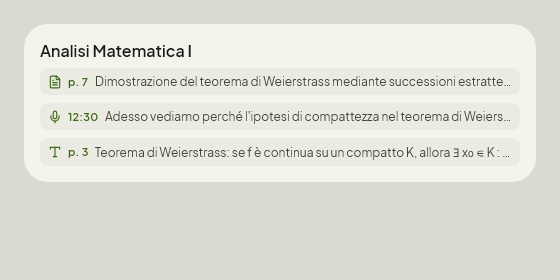
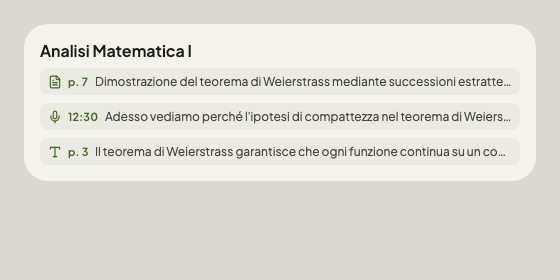
fix(search): matrices, cases and the commands of formatting read as math in the snippets, the screenshots left to the mac

diff --git a/drawview-search-ui/src/commonMain/kotlin/io/github/valerioisufi/drawview/search/ui/ReadableMath.kt b/drawview-search-ui/src/commonMain/kotlin/io/github/valerioisufi/drawview/search/ui/ReadableMath.kt
@@ -34,8 +34,14 @@ internal object ReadableMath {
     private class Reader(private val source: String) {
         private var at = 0
 
-        /** What follows up to [end] (a closing brace or bracket, consumed) or the end of the formula. */
-        fun readUntil(end: Char?, depth: Int): String {
+        /** Whether the command read last was an `\end`, closing the environment being read. */
+        private var environmentEnded = false
+
+        /**
+         * What follows up to [end] (a closing brace or bracket, consumed) or the end of the formula;
+         * in an environment ([inEnvironment]), up to its `\end`, its cells apart by [cell].
+         */
+        fun readUntil(end: Char?, depth: Int, cell: String = " ", inEnvironment: Boolean = false): String {
             val out = StringBuilder()
             while (at < source.length) {
                 val ch = source[at]
@@ -59,13 +65,20 @@ internal object ReadableMath {
                     }
                     '&' -> {
                         at++
-                        out.append(' ')
+                        out.append(cell)
                     }
                     '~' -> {
                         at++
                         out.append(' ')
                     }
-                    '\\' -> out.append(command(depth))
+                    '\\' -> {
+                        val read = command(depth)
+                        if (environmentEnded) {
+                            environmentEnded = false
+                            if (inEnvironment) return out.toString()
+                        }
+                        out.append(read)
+                    }
                     else -> {
                         at++
                         out.append(ch)
@@ -162,17 +175,88 @@ internal object ReadableMath {
                 }
                 "mathbb" -> argument(depth).let { content -> content.map { DOUBLE_STRUCK[it] ?: it }.joinToString("") }
                 "text", "textrm", "textit", "textbf", "mathrm", "mathbf", "mathit", "mathsf", "mathtt", "mathcal",
-                "mathscr", "mathfrak", "boldsymbol", "bm", "operatorname", "mbox", "hbox", "overline", "underline",
-                "widehat", "widetilde", "hat", "tilde", "bar", "vec", "dot", "ddot", "overrightarrow" -> argument(depth)
-                "left", "right", "big", "Big", "bigg", "Bigg", "bigl", "bigr", "Bigl", "Bigr", "biggl", "biggr",
-                "displaystyle", "textstyle", "scriptstyle", "limits", "nolimits", "nonumber", "notag" -> ""
-                "begin", "end" -> {
+                "mathscr", "mathfrak", "boldsymbol", "bm", "mbox", "hbox", "overline", "underline", "mathop",
+                "widehat", "widetilde", "hat", "tilde", "bar", "vec", "dot", "ddot", "overrightarrow", "boxed",
+                "cancel", "bcancel", "xcancel" -> argument(depth)
+                "operatorname" -> {
+                    if (at < source.length && source[at] == '*') at++
+                    argument(depth)
+                }
+                "underbrace", "overbrace" -> {
+                    // The label under or over the brace, after what it labels
+                    val content = argument(depth)
+                    skipSpaces()
+                    if (at < source.length && (source[at] == '_' || source[at] == '^')) {
+                        at++
+                        "$content (${argument(depth).trim()})"
+                    } else {
+                        content
+                    }
+                }
+                "overset", "underset", "stackrel" -> {
+                    argument(depth)
+                    argument(depth)
+                }
+                "not" -> argument(depth).trim().let { negated -> NEGATIONS[negated] ?: "$negated̸" }
+                "textcolor" -> {
+                    argument(depth)
+                    argument(depth)
+                }
+                "color" -> {
                     argument(depth)
                     ""
                 }
+                "left", "right", "big", "Big", "bigg", "Bigg", "bigl", "bigr", "Bigl", "Bigr", "biggl", "biggr",
+                "displaystyle", "textstyle", "scriptstyle", "limits", "nolimits", "nonumber", "notag", "phantom" -> ""
+                "begin" -> environment(depth)
+                "end" -> {
+                    argument(depth)
+                    environmentEnded = true
+                    ""
+                }
                 "quad", "qquad", "enspace", "thinspace" -> " "
-                else -> name
+                else -> unknown(name, depth)
             }
+        }
+
+        /**
+         * An environment whose `\begin` was read, up to its `\end`: a matrix in its brackets, its
+         * rows apart by `;`; the cases in braces, each value and its condition apart by a comma.
+         */
+        private fun environment(depth: Int): String {
+            val name = argument(depth).trim().removeSuffix("*")
+            if (name == "array") argument(depth)
+            if (depth >= MAX_DEPTH) return ""
+            val (open, close, cell) = ENVIRONMENTS[name] ?: Triple("", "", " ")
+            environmentEnded = false
+            val body = readUntil(end = null, depth = depth + 1, cell = cell, inEnvironment = true)
+                .replace(SPACES, " ").replace(" ,", ",").replace(" ;", ";").trim().removeSuffix(";").trim()
+            return " $open$body$close "
+        }
+
+        /**
+         * A command not known: by the content of its arguments in braces, which a command of
+         * formatting or of a package would show; by its name when it has none, as a word or a
+         * symbol of the formula would be.
+         */
+        private fun unknown(name: String, depth: Int): String {
+            val after = at
+            skipSpaces()
+            if (at >= source.length || source[at] != '{') {
+                at = after
+                return name
+            }
+            val out = StringBuilder()
+            while (at < source.length && source[at] == '{') {
+                if (out.isNotEmpty()) out.append(' ')
+                out.append(argument(depth))
+                skipSpaces()
+            }
+            return out.toString()
+        }
+
+        private fun skipSpaces() {
+            while (at < source.length && source[at] == ' ') at++
         }
 
         /** [content] alone, in parentheses when it is more than one term. */
@@ -248,6 +332,24 @@ internal object ReadableMath {
         "bigwedge" to "⋀", "bigoplus" to "⊕", "bigotimes" to "⊗", "surd" to "√", "prime" to "′",
         "degree" to "°", "star" to "⋆", "bullet" to "•", "triangle" to "△", "square" to "□",
         "colon" to ":", "lbrace" to "{", "rbrace" to "}", "backslash" to "\\"
+    )
+
+    /** The environments by their delimiters and what is between their cells; the others have none. */
+    private val ENVIRONMENTS: Map<String, Triple<String, String, String>> = mapOf(
+        "pmatrix" to Triple("(", ")", " "),
+        "bmatrix" to Triple("[", "]", " "),
+        "Bmatrix" to Triple("{", "}", " "),
+        "vmatrix" to Triple("|", "|", " "),
+        "Vmatrix" to Triple("‖", "‖", " "),
+        "cases" to Triple("{ ", " }", ", "),
+        "dcases" to Triple("{ ", " }", ", ")
+    )
+
+    /** The symbols `\not` makes by a character of their own. */
+    private val NEGATIONS: Map<String, String> = mapOf(
+        "=" to "≠", "∈" to "∉", "⊂" to "⊄", "⊃" to "⊅", "⊆" to "⊈", "⊇" to "⊉", "≡" to "≢", "∼" to "≁",
+        "≃" to "≄", "≅" to "≇", "≈" to "≉", "<" to "≮", ">" to "≯", "≤" to "≰", "≥" to "≱", "∃" to "∄",
+        "|" to "∤", "∣" to "∤", "∥" to "∦"
     )
 
     private val SUPERSCRIPTS: Map<Char, Char> = mapOf(

diff --git a/drawview-search-ui/src/commonTest/kotlin/io/github/valerioisufi/drawview/search/ui/ReadableMathTest.kt b/drawview-search-ui/src/commonTest/kotlin/io/github/valerioisufi/drawview/search/ui/ReadableMathTest.kt
@@ -43,8 +43,41 @@ class ReadableMathTest {
     }
 
     @Test
-    fun writesAnUnknownCommandByItsName() {
+    fun writesMatricesInTheirBracketsAndCasesInBraces() {
+        assertEquals("(1 2; 3 4)", ReadableMath.latex("\\begin{pmatrix}1&2\\\\3&4\\end{pmatrix}"))
+        assertEquals("A = [a b; c d]", ReadableMath.latex("A = \\begin{bmatrix} a & b \\\\ c & d \\\\ \\end{bmatrix}"))
+        assertEquals("{1 0; 0 1}", ReadableMath.latex("\\begin{Bmatrix}1&0\\\\0&1\\end{Bmatrix}"))
+        assertEquals("det A = |a b; c d|", ReadableMath.latex("\\det A = \\begin{vmatrix}a&b\\\\c&d\\end{vmatrix}"))
+        assertEquals("‖a b‖", ReadableMath.latex("\\begin{Vmatrix}a&b\\end{Vmatrix}"))
+        assertEquals("1 2; 3 4", ReadableMath.latex("\\begin{matrix}1&2\\\\3&4\\end{matrix}"))
+        assertEquals("1 2", ReadableMath.latex("\\begin{array}{cc} 1 & 2 \\end{array}"))
+        assertEquals("a = b; = c", ReadableMath.latex("\\begin{aligned} a &= b \\\\ &= c \\end{aligned}"))
+        assertEquals(
+            "|x| = { x, x ≥ 0; -x, x < 0 }",
+            ReadableMath.latex("|x| = \\begin{cases} x & x \\ge 0 \\\\ -x & x < 0 \\end{cases}")
+        )
+        assertEquals(
+            "{ (1 0; 0 1), if n = 0; 0, otherwise }",
+            ReadableMath.latex("\\begin{cases} \\begin{pmatrix}1&0\\\\0&1\\end{pmatrix} & \\text{if } n = 0 \\\\ 0 & \\text{otherwise} \\end{cases}")
+        )
+        assertEquals("(1 2)", ReadableMath.latex("\\begin{pmatrix}1&2"))
+    }
+
+    @Test
+    fun readsTheContentOfCommandsThatAreNotWordsOfTheFormula() {
+        assertEquals("a+…+a (n)", ReadableMath.latex("\\underbrace{a+\\dots+a}_{n}"))
+        assertEquals("x+y (k)", ReadableMath.latex("\\overbrace{x+y}^{k}"))
+        assertEquals("argmaxₓ f(x)", ReadableMath.latex("\\operatorname*{argmax}_x f(x)"))
+        assertEquals("a ≠ b, x ∉ A", ReadableMath.latex("a \\not= b, x \\not\\in A"))
+        assertEquals("∫ f(x) dx", ReadableMath.latex("\\int f(x)\\,\\mathrm{d}x"))
+        assertEquals("x", ReadableMath.latex("\\textcolor{red}{x}"))
+        assertEquals("=", ReadableMath.latex("\\overset{!}{=}"))
+    }
+
+    @Test
+    fun writesAnUnknownCommandByTheContentOfItsArgumentsOrElseByItsName() {
         assertEquals("foo x", ReadableMath.latex("\\foo x"))
+        assertEquals("x y", ReadableMath.latex("\\foo{x}{y}"))
     }
 
     @Test
@@ -53,5 +86,7 @@ class ReadableMathTest {
         assertTrue("x" in ReadableMath.latex(deep))
         val commands = "\\frac".repeat(2_000) + "12"
         assertTrue(ReadableMath.latex(commands).isNotEmpty())
+        val matrices = "\\begin{pmatrix}".repeat(2_000) + "x" + "\\end{pmatrix}".repeat(2_000)
+        assertTrue("x" in ReadableMath.latex(matrices))
     }
 }

diff --git a/docs/plans/search-snippet-latex.md b/docs/plans/search-snippet-latex.md
@@ -75,7 +75,8 @@ Variations).
 
 | Phase | What | Status |
 |---|---|---|
-| 1 | `ReadableMath`, used by `ContentSearch` for the snippets of texts and lecture notes; tests of the conversion and of the snippet of a text with a formula; the screenshot of the results with a formula | done |
+| 1 | `ReadableMath`, used by `ContentSearch` for the snippets of texts and lecture notes; tests of the conversion and of the snippet of a text with a formula; the screenshot test of the results with a formula | done |
+| 2 | Review: matrices and cases with their delimiters, `\underbrace`, `\operatorname*`, `\not`, unknown commands by their arguments; the screenshots restored from `main` | done |
 
 ## Decisions
 
@@ -84,9 +85,22 @@ Variations).
 3. The conversion lives in `drawview-search-ui`, internal: what the library shows. It could move
    to `drawview-search` as a public function if another reader wants it.
 
+4. Environments: a matrix in its brackets (`pmatrix` ( ), `bmatrix` [ ], `Bmatrix` { },
+   `vmatrix` | |, `Vmatrix` ‖ ‖), rows apart by `;`; `cases` in `{ … }`, a value and its condition
+   apart by a comma; `matrix`, `aligned`, `array` without delimiters. Revertible.
+5. An unknown command reads as the content of its arguments in braces (a command of formatting
+   or of a package), and by its name when it has none (a word or symbol of the formula).
+   `Nderbrace`/`overbrace` read their content, their label after it in parentheses. Revertible.
+
 ## Left for later
 
 1. Highlighting the words of the query in the snippet (the row of `drawview-explorer` draws a
    plain `String` today).
 2. Formulas of the handwriting (recognized as LaTeX) in their snippets, once they have a notation
    of their own in the chunk.
+3. The screenshots of the results (`search-results-light.png`, `search-results-dark.png`) are not
+   recorded on Windows: its text antialiasing differs from the references of macOS. The test now
+   has a formula in its text, so they must be recorded again on the Mac (or by the CI, if a plan
+   for that lands first).
+4. Formulas drawn by the LaTeX engine in an expanded result, a richer preview than the line of
+   the snippet (rendering is not ruled out, only kept off the one-line row).
